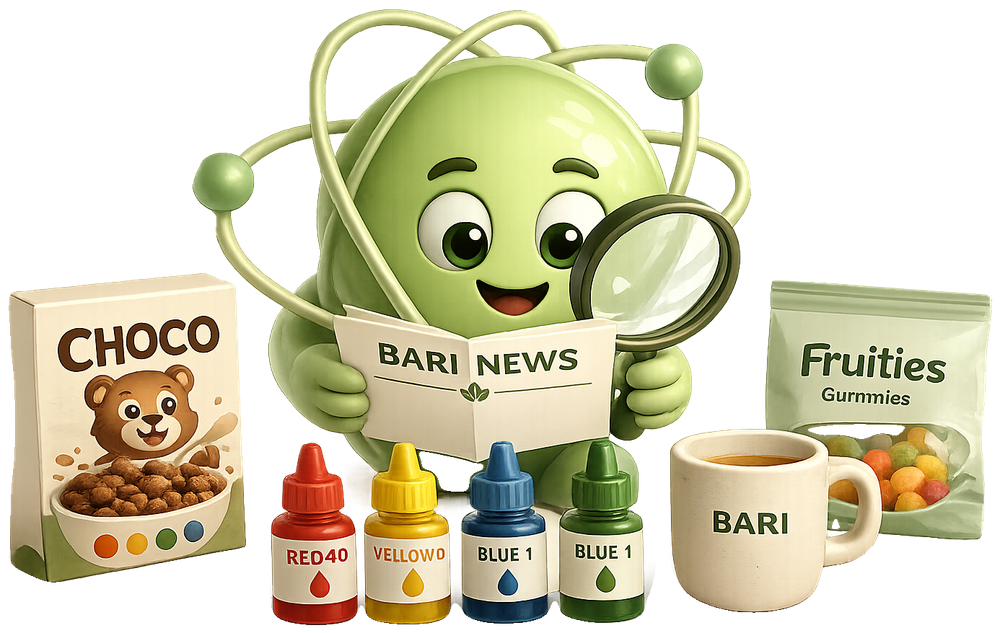
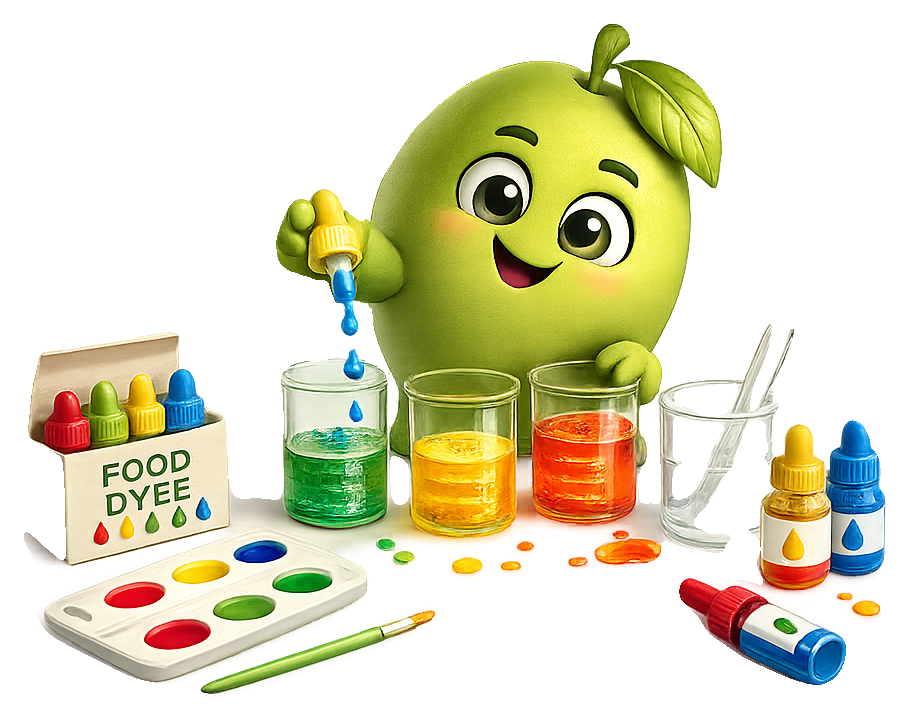
Food-dye blog: swap in new ATOM mascot render
- Replaced /blog/food-dyes/atom-food-dyes.png with the new food-dye lab render,
  background-cut to transparent PNG (910x723) via the same rembg u2net method.
- Updated Image intrinsic width/height 1000x633 -> 910x723 to match aspect ratio.

diff --git a/bari-web/src/components/blog/food-dyes-article.tsx b/bari-web/src/components/blog/food-dyes-article.tsx
@@ -216,8 +216,8 @@ export function FoodDyesArticle() {
           <Image
             src="/blog/food-dyes/atom-food-dyes.png"
             alt=""
-            width={1000}
-            height={633}
+            width={910}
+            height={723}
             className="pointer-events-none mx-auto mt-8 h-auto w-full max-w-sm"
             aria-hidden
           />
